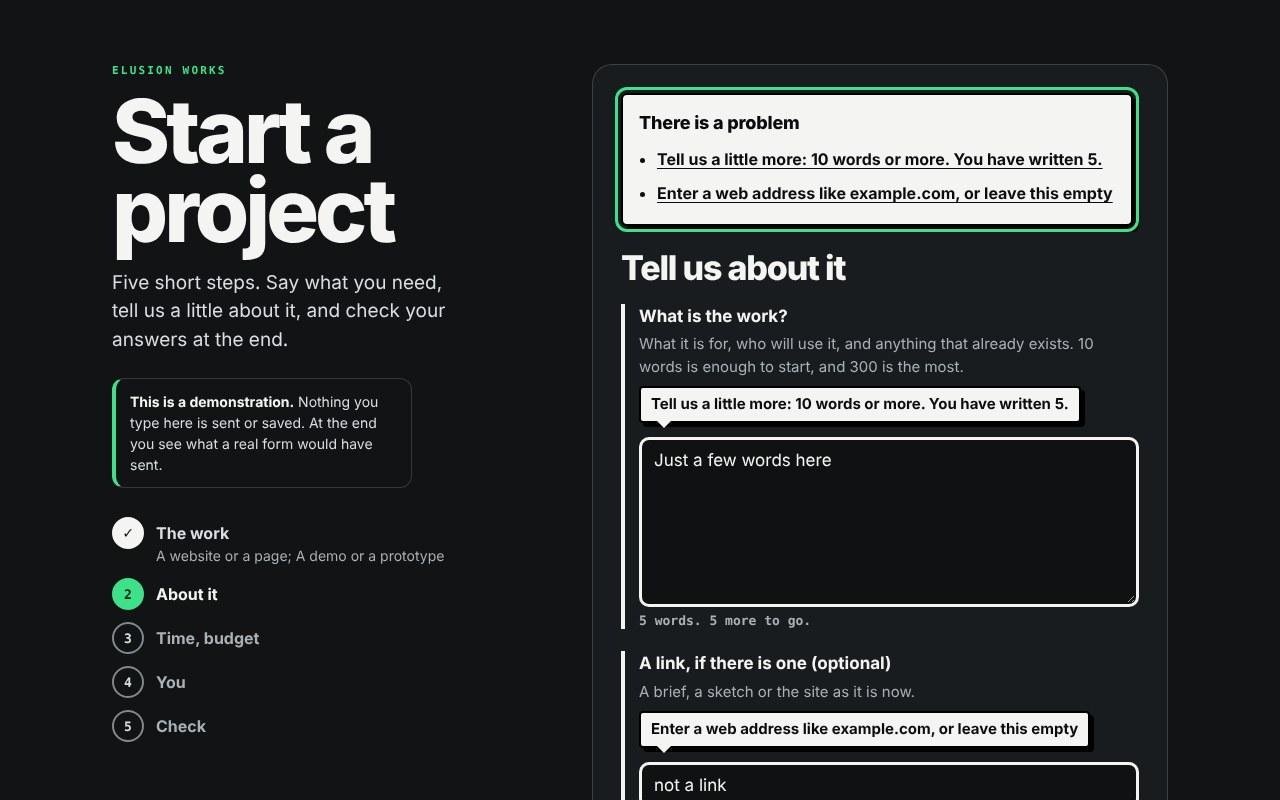
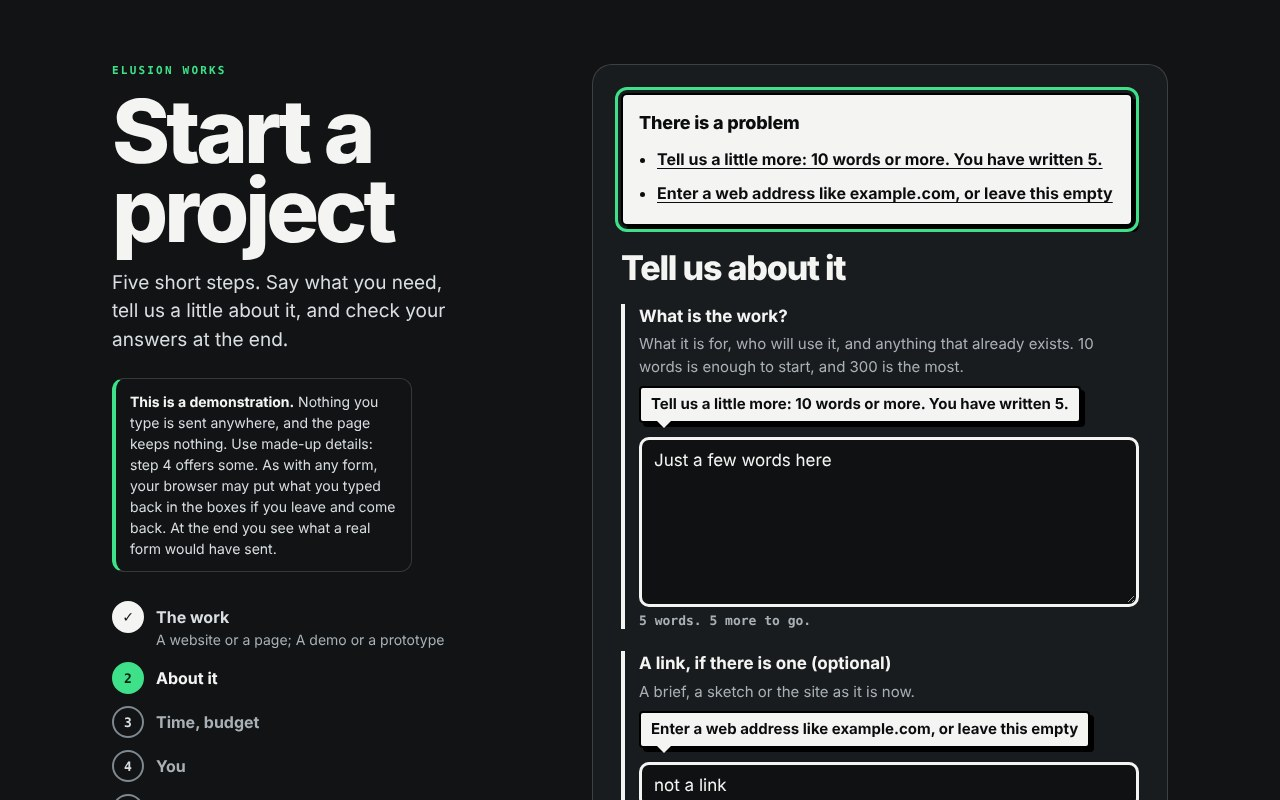
Enquiry demo: ask for made-up details and offer some
Acts on the outside review of PR 143.

- The page says to use made-up details, before the questions and at
  the step that asks who you are, and offers a name, an address and a
  number that its own rules accept. One button fills them in.
- No box asks the browser for a stored name, address or number.
- The opening notice says the page keeps nothing, and that a browser
  may put typed answers back when you leave and return.
- README status says that merging makes the page reachable.
- Checks added to the rules test and the browser check; pictures retaken.

Claude-Session: https://claude.ai/code/session_013B6jEDQfd86RBiChYmYX6U

Changed region(s): [[0.0625, 0.5, 0.3438, 1.0]]

diff --git a/demos/enquiry/index.html b/demos/enquiry/index.html
@@ -25,6 +25,7 @@
   .about { position:static; } h1 { margin:.875rem 0 1.125rem; font-size:clamp(2rem, 11vw, 5.5rem); overflow-wrap:anywhere; line-height:.9; font-weight:800; letter-spacing:-.045em; text-wrap:balance; }
   .lede { margin:0; max-width:30ch; font-size:1.1875rem; color:var(--soft); }
   .demo { margin:1.5rem 0 0; max-width:34ch; padding:.75rem .875rem; border-radius:.75rem; border:1px solid var(--line); border-left:4px solid var(--accent); font-size:.875rem; color:var(--soft); } .demo strong { color:var(--ink); }
+  .made { margin:0 0 .75rem; padding:.75rem .875rem; border-radius:.75rem; border:1px solid var(--line); border-left:4px solid var(--accent); font-size:.9375rem; color:var(--soft); overflow-wrap:anywhere; } .made strong { color:var(--ink); } .btn.small { min-height:2.75rem; padding:0 1rem; font-size:.9375rem; margin:0 0 1.375rem; }
 
   /* The steps: a list beside the form on a wide screen, each with its answer once it has one; a row of dots above the form on a narrow one. */
   #steps { display:grid; gap:.125rem; max-width:24rem; margin:1.5rem 0 0; padding:0; list-style:none; } #steps li { display:grid; grid-template-columns:2rem minmax(0, 1fr); gap:.75rem; align-items:start; padding:.3125rem 0; }
@@ -63,7 +64,7 @@
   <p class="eyebrow">Elusion Works</p>
   <h1>Start a project</h1>
   <p class="lede">Five short steps. Say what you need, tell us a little about it, and check your answers at the end.</p>
-  <p class="demo"><strong>This is a demonstration.</strong> Nothing you type here is sent or saved. At the end you see what a real form would have sent.</p>
+  <p class="demo"><strong>This is a demonstration.</strong> Nothing you type is sent anywhere, and the page keeps nothing. Use made-up details: step 4 offers some. As with any form, your browser may put what you typed back in the boxes if you leave and come back. At the end you see what a real form would have sent.</p>
   <ol id="steps" class="js" aria-label="Steps of the form"></ol>
 </header>
 
@@ -139,16 +140,18 @@
 
     <section class="step" id="you">
       <h2 tabindex="-1"><span class="n">Step 4 of 5</span>How do we reach you?</h2>
+      <p class="made" id="h-made"><strong>Use made-up details only.</strong> Nothing is sent, so nobody will reply, and there is no reason to give your own. For example: <span id="made-name">Sam Carter</span>, <span id="made-email">sam@example.com</span>, <span id="made-phone">020 7946 0000</span>.</p>
+      <button class="btn small js" id="madeup" type="button">Fill in these made-up details</button>
       <div class="field">
         <label for="name">Your name</label>
         <p class="err" id="e-name" hidden></p>
-        <input id="name" name="name" type="text" autocomplete="name" required class="short">
+        <input id="name" name="name" type="text" autocomplete="off" required class="short" aria-describedby="h-made">
       </div>
       <div class="field">
         <label for="email">Your email address</label>
-        <p class="hint" id="h-email">A real form would use this only to reply to you.</p>
+        <p class="hint" id="h-email">A real form would use this only to reply to you. Here, use a made-up one.</p>
         <p class="err" id="e-email" hidden></p>
-        <input id="email" name="email" type="text" inputmode="email" autocomplete="email" autocapitalize="none" spellcheck="false" required aria-describedby="h-email">
+        <input id="email" name="email" type="text" inputmode="email" autocomplete="off" autocapitalize="none" spellcheck="false" required aria-describedby="h-email">
       </div>
       <fieldset id="f-reply">
         <legend>How would you like a reply?</legend>
@@ -160,7 +163,7 @@
       <div class="field" id="w-phone">
         <label for="phone">Your phone number</label>
         <p class="err" id="e-phone" hidden></p>
-        <input id="phone" name="phone" type="tel" inputmode="tel" autocomplete="tel" class="short">
+        <input id="phone" name="phone" type="tel" inputmode="tel" autocomplete="off" class="short" aria-describedby="h-made">
       </div>
     </section>
 

diff --git a/demos/enquiry/js/app.js b/demos/enquiry/js/app.js
@@ -1,4 +1,4 @@
-// Start a project: the page. flow.js holds the rules; this file shows one step at a time, says what is wrong with an answer, and shows what would be sent. Nothing is sent, and nothing is saved.
+// Start a project: the page. flow.js holds the rules; this file shows one step at a time, says what is wrong with an answer, and shows what would be sent. Nothing is sent, and the page keeps nothing.
 import * as F from './flow.js';
 
 const $ = id => document.getElementById(id);
@@ -36,6 +36,8 @@ for (const g of form.querySelectorAll('fieldset[id^="f-"]')) { const first = g.q
 /* As answers change: the questions asked, the steps beside the form, and any problem that has been put right goes from the list. Nothing new is added until Continue is pressed. */
 function settle() { asked(); paintSteps(); if (!shownFor.length) return; const still = F.check(F.STEPS[step].id, read()).filter(e => shownFor.includes(e.field)), was = [...$('errors').querySelectorAll('li a')].map(a => a.textContent); if (still.length !== was.length || still.some((e, i) => e.message !== was[i])) { const inList = $('errors').contains(document.activeElement); showErrors(still, false); if (inList) (still.length ? $('errors') : sections[step].querySelector('h2')).focus(); } }
 form.addEventListener('change', settle); form.addEventListener('input', e => { if (e.target.id === 'about') count(true); settle(); });
+/* The made-up details the page offers, put in the boxes by one press: the phone number too, if a reply by phone is asked for. */
+$('madeup').addEventListener('click', () => { $('name').value = F.MADE_UP.name; $('email').value = F.MADE_UP.email; if (!$('w-phone').hidden) $('phone').value = F.MADE_UP.phone; settle(); say('Made-up details are filled in.'); });
 /* Enter on a tick box or a choice is not Continue. */
 form.addEventListener('keydown', e => { if (e.key === 'Enter' && e.target.matches('input[type="checkbox"], input[type="radio"]')) e.preventDefault(); });
 

diff --git a/demos/enquiry/js/flow.js b/demos/enquiry/js/flow.js
@@ -13,6 +13,8 @@ export const WHEN = [['soon', 'As soon as possible'], ['month', 'In the next mon
 export const BUDGET = [['small', 'Under £1,000'], ['mid', '£1,000 to £5,000'], ['large', 'Over £5,000'], ['unsure', 'Not sure yet']];
 export const REPLY = [['email', 'By email'], ['phone', 'By phone']];
 export const LIMITS = { aboutMin: 10, aboutMax: 300, otherMax: 80, nameMax: 80 };
+// The made-up details the page offers at the step that asks who you are. The name is nobody's, the address is at a domain kept for examples, and the number is in a range kept for television and film.
+export const MADE_UP = { name: 'Sam Carter', email: 'sam@example.com', phone: '020 7946 0000' };
 export const blank = () => ({ needs: [], other: '', about: '', link: '', when: '', budget: '', name: '', email: '', reply: 'email', phone: '', agree: false });
 
 // Words and characters are counted as a reader would count them, where the browser can: "don't" is one word, a sentence of Japanese is more than one, and an accented letter or an emoji is one character.

diff --git a/demos/enquiry/README.md b/demos/enquiry/README.md
@@ -2,7 +2,7 @@
 
 A five-step enquiry form for Elusion Works: what you need, a few words about it, timing and budget, how to reach you, then a page to check your answers before anything goes anywhere. The fourth of the seven gap demos on Kol's Fable 5.2 benchmark list, built with Claude Fable 5.2.
 
-**It is a demonstration. Nothing is sent and nothing is saved.** There is no server behind it. Pressing Send enquiry shows the text that would have been sent, and that is all.
+**It is a demonstration. Nothing is sent, and the page keeps nothing.** It asks for made-up details and offers some. There is no server behind it. Pressing Send enquiry shows the text that would have been sent, and that is all.
 
 **Quality bar it sets:** a form whose rules live in one file that the page cannot disagree with: every question, every answer and every error message is checked in the browser against that file, the focus is followed through every step and every mistake, and Send is proved to send nothing.
 Use it as the reference for forms, sign-ups and anything that asks people questions in order.
@@ -51,9 +51,9 @@ The second and third need the site's development packages (Playwright and axe-co
 - The email check is a shape check. It cannot tell whether an address exists.
 - A link on your own machine (localhost) and a link with a name and password in it are refused on purpose: neither is something to send.
 - Full-width, Arabic and Persian figures in a phone number are read as plain ones. Other scripts' figures are not.
-- Answers are lost if the page is reloaded. Nothing is saved, on purpose. If you leave the page and come back with the browser's Back, the browser itself may put your answers back in the boxes.
+- Answers are lost if the page is reloaded. The page keeps nothing, on purpose. The browser is another matter: if you leave the page and come back with its Back, it may put your answers back in the boxes, and the page says so. No box asks the browser for a stored name, address or number, but a browser may still offer one.
 - Checked only in headless Chromium. Not yet seen in Safari or Firefox or on a real phone, and no screen reader has been heard on it.
 
 ## Status
 
-Unlisted. The page carries `noindex`, and it is not in the gallery or the sitemap. Nothing here is published.
+Unlisted draft. The page carries `noindex`, and it is not in the gallery or the sitemap. Nothing here is published. The site deploys its main branch, so merging this would put the page at /demos/enquiry/, where anyone with the address could open it.

diff --git a/demos/enquiry/REVIEW.md b/demos/enquiry/REVIEW.md
@@ -77,6 +77,20 @@ A second pass by a separate Claude agent (Opus), read-only, given the brief and 
 | 15 | A class that did nothing | Removed | |
 | 16 | Words: lines that implied a reply would come; figures as words in one place and digits in another; "That is 5."; "press Send" | Reworded | by reading |
 
+## Outside review
+
+A second, outside review was posted on the pull request on 17 November 2026: ChatGPT in chat mode at Pro, driven by another Claude session at Kol's request. It covered this demo with the print shop, read the code and pictures, and did not run the page. It scored the pair 7 out of 10 and said HOLD. It found no place the form could send to, no tracking and no storage.
+
+| Finding | What was done | Held by |
+|---|---|---|
+| The form asked for a name, an email address and a phone number as a real one would, and asked the browser to fill in the visitor's own | The page says to use made-up details, before the questions and again at the step that asks who you are. It offers a name, an address at a domain kept for examples and a number in a range kept for film and television, and one button fills them in. No box asks the browser for stored details | rules test; browser check at 1280, on a 320 phone, at large text and with scripts off |
+| "Nothing is saved" overlooked that a browser may put answers back | The page now says it keeps nothing itself, and that the browser may put what you typed back in the boxes if you leave and come back | browser check |
+| The demo's own tests do not run in the repo's CI | Not done here: CI is shared by the whole site, and changing it is outside this demo's folder | |
+| No real phone, Safari or Firefox, screen reader or reference comparison | Still true. Listed under Not verified | |
+| "Unlisted" pages become reachable once merged, because the site deploys its main branch | The README now says so | |
+
+A browser can ignore a page that asks it not to fill a box in, so a visitor's own details may still be offered by the browser. The page cannot stop that; it can only ask for made-up ones.
+
 ## Provenance
 
 - No library, no font, picture or data file.
